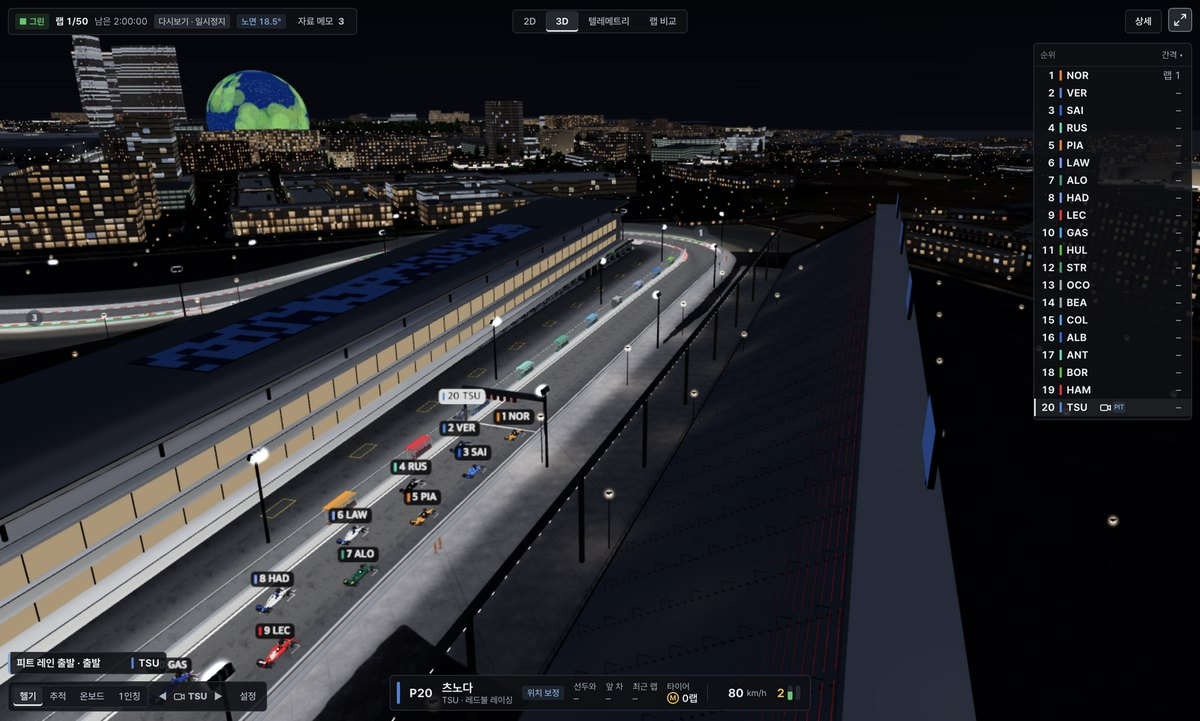
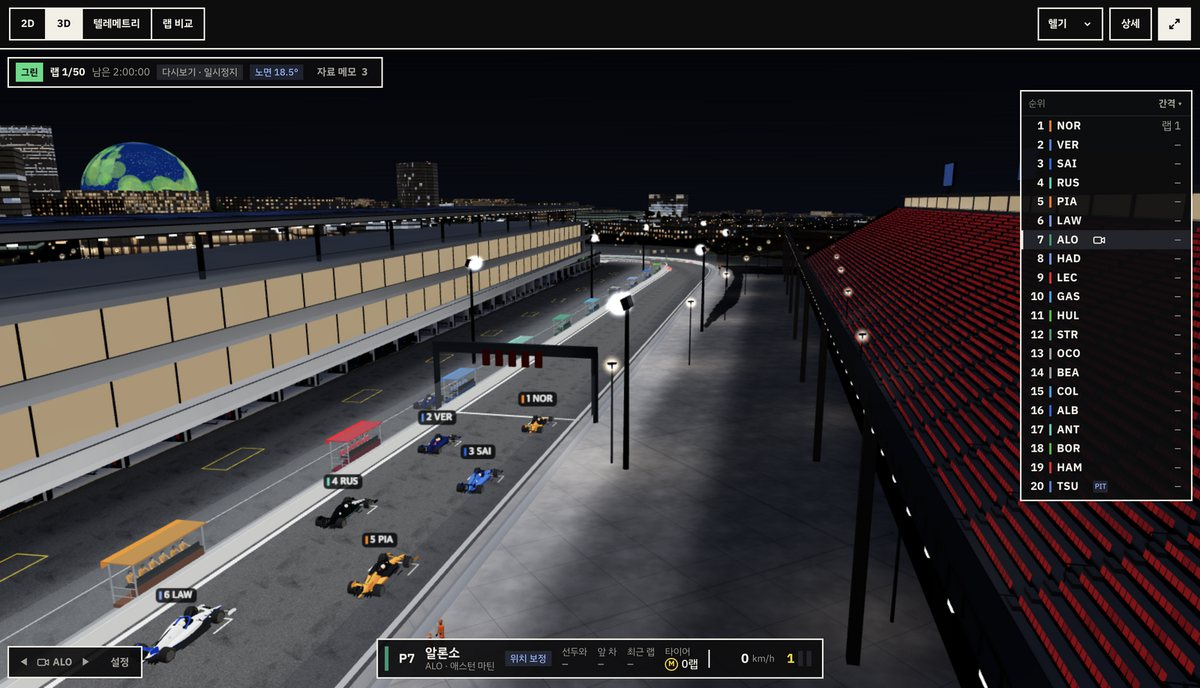
v0.71.0: version, CHANGELOG, README (six photos re-shot in the new look incl. the timing screen, usage line, verification – tests 1049/1049)

diff --git a/CHANGELOG.md b/CHANGELOG.md
@@ -4,6 +4,21 @@
 
 > 버전 규칙: 고치는 회차마다 가운데 숫자를 하나 올립니다(0.48.0 → 0.49.0).
 
+## v0.71.0 — 2026-11-27
+- **화면 리디자인 – 첫 화면 · 타이밍 화면 · 전략 게임 메뉴:** 화면의 글자 양을 줄이고 새 스타일을 입힘(각진 2 px 테두리, 단색 블록, 굵은 숫자, 노란 스티커 라벨, 흐림 없는 그림자). 색: 바탕 #0D0D0F, 글자 · 테두리 #F2EFE6, 포인트 파랑 #3D4DFF(상단 띠 · 선택 · 지구본 · 2D 트랙판) · 노랑 #FFE500(스티커 · 선택한 순위) · 빨강 #FF4B33(주 실행 버튼). 글꼴 Black Han Sans · Anton · IBM Plex Sans KR · IBM Plex Mono를 앱에 넣어 오프라인에서도 나옴(Pretendard는 뺌). 화면에서 뺀 정보는 지우지 않고 ⋯ 메뉴나 마우스를 올렸을 때의 설명으로 옮김.
+- **첫 화면:** 상단은 로고 · 다시보기/실시간 · 연도 · 전략 게임 · ⋯ 메뉴. 일정 · 기록 목록의 갱신 상태는 ⋯ 메뉴 안으로 가고, 갱신에 실패했을 때만 버튼에 노란 점. 그랑프리 목록은 번호 블록(끝난 경기 흰색 · 선택 노란색 · 예정 테두리만) · 이름 · 스프린트 라벨 · 날짜. 선택한 그랑프리는 라운드 · 이름 · 날짜와 세션 칸 – 칸을 누르면 불러옴("불러오기" 버튼 없음). 이어보기는 이름과 진행 막대. 전체 개최지 · 위에 고정은 ⋯ 메뉴로.
+- **지구본:** 사진 대신 파란 단색 구 · 밝은 테두리 · 격자에 대륙을 밝은 단색 면으로 그림(Natural Earth 1:110m, 퍼블릭 도메인 – 거칠게 줄여 넣음). WebGL을 쓰지 않는 SVG 그림이고, 돌리면 대륙과 개최지 점이 함께 움직임. Blue Marble 사진은 뺌.
+- **타이밍 화면 – 상단 한 줄:** 로고(홈) · 세션 선택 · 플래그 블록 · 랩 · 기온/노면. 세션 선택을 누르면 그 시즌의 세션 목록이 열리고 고르면 바로 불러옴. 남은 시간은 랩 수가 없는 연습 · 예선에서만 랩 자리에 나오고, 예선 단계(Q1–Q3)는 플래그 옆 작은 블록. 습도 · 풍속은 기온의 설명으로, 재생 중/일시정지 표시와 상단의 레이스 컨트롤 한 줄은 뺌. 실시간 모드의 연결 · 지연 조작은 둘째 줄.
+- **타이밍 표:** 드라이버 칸은 팀 컬러 막대와 한글 이름만(약자 · 번호 · 팀은 설명으로). 받지 않은 값은 빈칸("–" 없음), 피트 0도 빈칸, 순위 변동은 있을 때만 ▲▼. 선택한 줄은 순위가 노란 블록. 표 안의 색은 데이터 전용(전체 최고 보라 블록, 개인 최고 초록 글자, 타이어, 팀 컬러). 미니 섹터 막대는 작은 블록으로 남김. 열 고르기는 ⋯ 메뉴 안으로.
+- **2D 트랙 뷰:** 파란 격자판 위에 흰색으로 채운 도로, 차량은 순위 숫자가 적힌 팀 컬러 사각 블록(선택한 차는 큰 노란 블록). 지도를 작게 줄이면 블록 · 도로가 함께 작아지고 조작 버튼은 위쪽 한 줄로 – 차량이 트랙을 가리지 않음. 전략 게임의 작은 지도도 같은 모양.
+- **3D 뷰는 그대로:** 카메라 버튼 4개만 트랙 뷰 위 막대의 목록 하나로 합침.
+- **탭 · 재생 바:** 탭 이름을 컨트롤 · 드라이버 · 라디오 · 스틴트 · 갭 · 순위로 줄이고, 레이스 컨트롤 필터는 아이콘 하나로. 메시지 한 줄은 랩 · 색 사각형 · 한국어 문장(시각과 영어 원문은 설명으로). 재생 바는 재생 · 배속 · 위치 막대 · 시간 · "?"(단축키 안내와 "처음으로").
+- **전략 게임 메뉴:** 탭 줄(홈 · 경기 기록 · 드라이버·차량, 오른쪽 아이콘은 설정) 아래 크기가 다른 타일 6개 – 레이스 준비 · 이어하기 · 경기 선택 · 저장 슬롯 · 차고 · 팀 바꾸기. 3D 차고는 "차고" 타일을 눌렀을 때만 엶. 상단 로고 옆에 "전략 게임" 블록이 나오고 로고를 누르면 게임을 닫음. 팀 선택과 게임 진행 화면은 공통 스타일만 입힘.
+- **보안 점검:** 가져온 시나리오 파일의 시즌 · 팀 색 값을 화면에 쓰기 전에 검사하고, 파일에 적힌 표본 수를 그대로 믿고 반복하지 않음. 실시간 데이터는 앱이 요청한 항목 이름만 받음. 순위 예측 · 라디오 목록의 값을 화면에 넣기 전에 이스케이프. 두 창 모두 웹 권한 요청을 거부하고, 외부 브라우저를 여는 경로를 없앰. 로그인 기록 파일은 주소의 값 부분을 모두 지움. 기록 서버 요청은 다른 주소로 넘겨질 때 토큰을 보내지 않고 크기를 제한. 페이지 정책에 frame · object · form · base 차단을 더함.
+- **Electron 44.5.1 → 44.11.6**(보안 수정이 들어간 같은 계열의 최신판).
+- **코드 정리:** 여섯 군데에 복사돼 있던 공통 함수(이스케이프 · 시계 · 한국 시간 · 설정 저장)를 `src/shared/fmt.js` 하나로. 그래프 · 2D 지도 · 지구본 · 타일 도형의 색을 디자인 토큰에서 읽음. 쓰이지 않는 스타일 규칙 · 함수를 지움. 선택된 버튼에 마우스를 올리면 글자가 안 보이던 것, 실시간 연결 상태 칩의 색이 사라져 있던 것을 고침. 설계 문서(`docs/DESIGN-SYSTEM.md`)를 새 모습에 맞춤.
+- 테스트 1049개(보안 · 공통 함수 테스트 9개 추가).
+
 ## v0.70.0 — 2026-11-26
 - **실버스톤(Silverstone)에 건물 모델 추가 – 랩 전체(파일 44개):** Wing 위층(피트레인 위 흰 테라스 띠, 처마까지 기울어 나온 유리 홀, 네 면으로 꺾인 지붕과 태양광 판, 코어 5개와 격자 마스트, Club 끝의 블레이드 · 기울어진 핀 · 시상대 테라스), 맞은편 Hilton Garden Inn 호텔, 호텔에서 Wing으로 트랙을 건너는 스카이 브리지, 출발 신호등 갠트리, 관중석 33개(Landostand, Hamilton Straight A / B, Abbey, Farm Curve, Village A / B, The View, International Paddock, Wellington, Luffield · Luffield Corner와 그 앞줄, Woodcote A / B, Jim Clark, National Pits Straight, Stirling A / B, Copse A–D와 앞줄, Silverstone Six, Becketts, Chapel, Vale, Club A, Club Corner), BRDC 클럽하우스, National 피트 2동, Maggotts–Becketts 바깥의 Escapade 14동과 클럽하우스, Wellington · Hangar 직선 위 도로 다리. 2026년 레이스의 실제 트랙 가장자리와 주행선으로 확인: 트랙 안으로 들어온 것 없음(가장 가까운 것은 다리 교대 3.0 m, 관중석 13.2 m, Wing 13.9 m).
 - **실버스톤 관중석 목록 12 → 34:** 빠져 있던 20개를 넣고 지붕 있는 16개를 표시. Landostand는 2026년부터 Stowe를 감싸는 한 덩어리(2025년까지는 네 블록), Hamilton Straight B는 호텔 앞과 호텔 북쪽 두 개, Farm Curve는 2027년부터 George Russell Grandstand.
